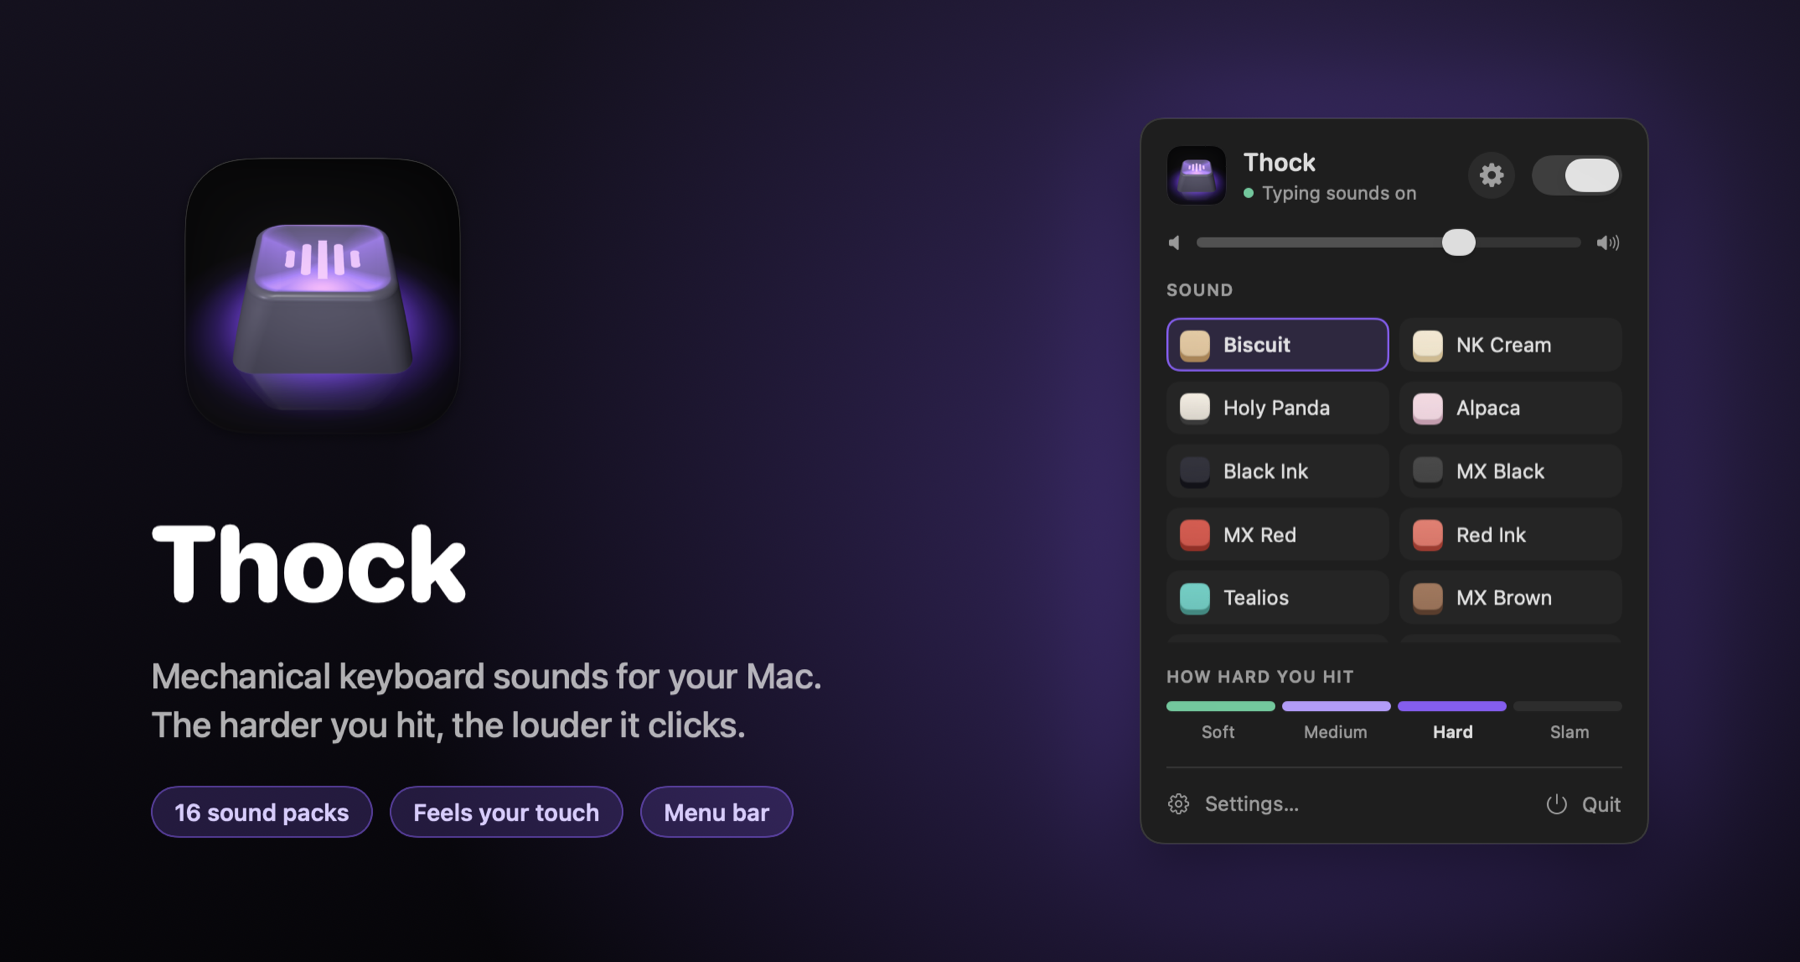
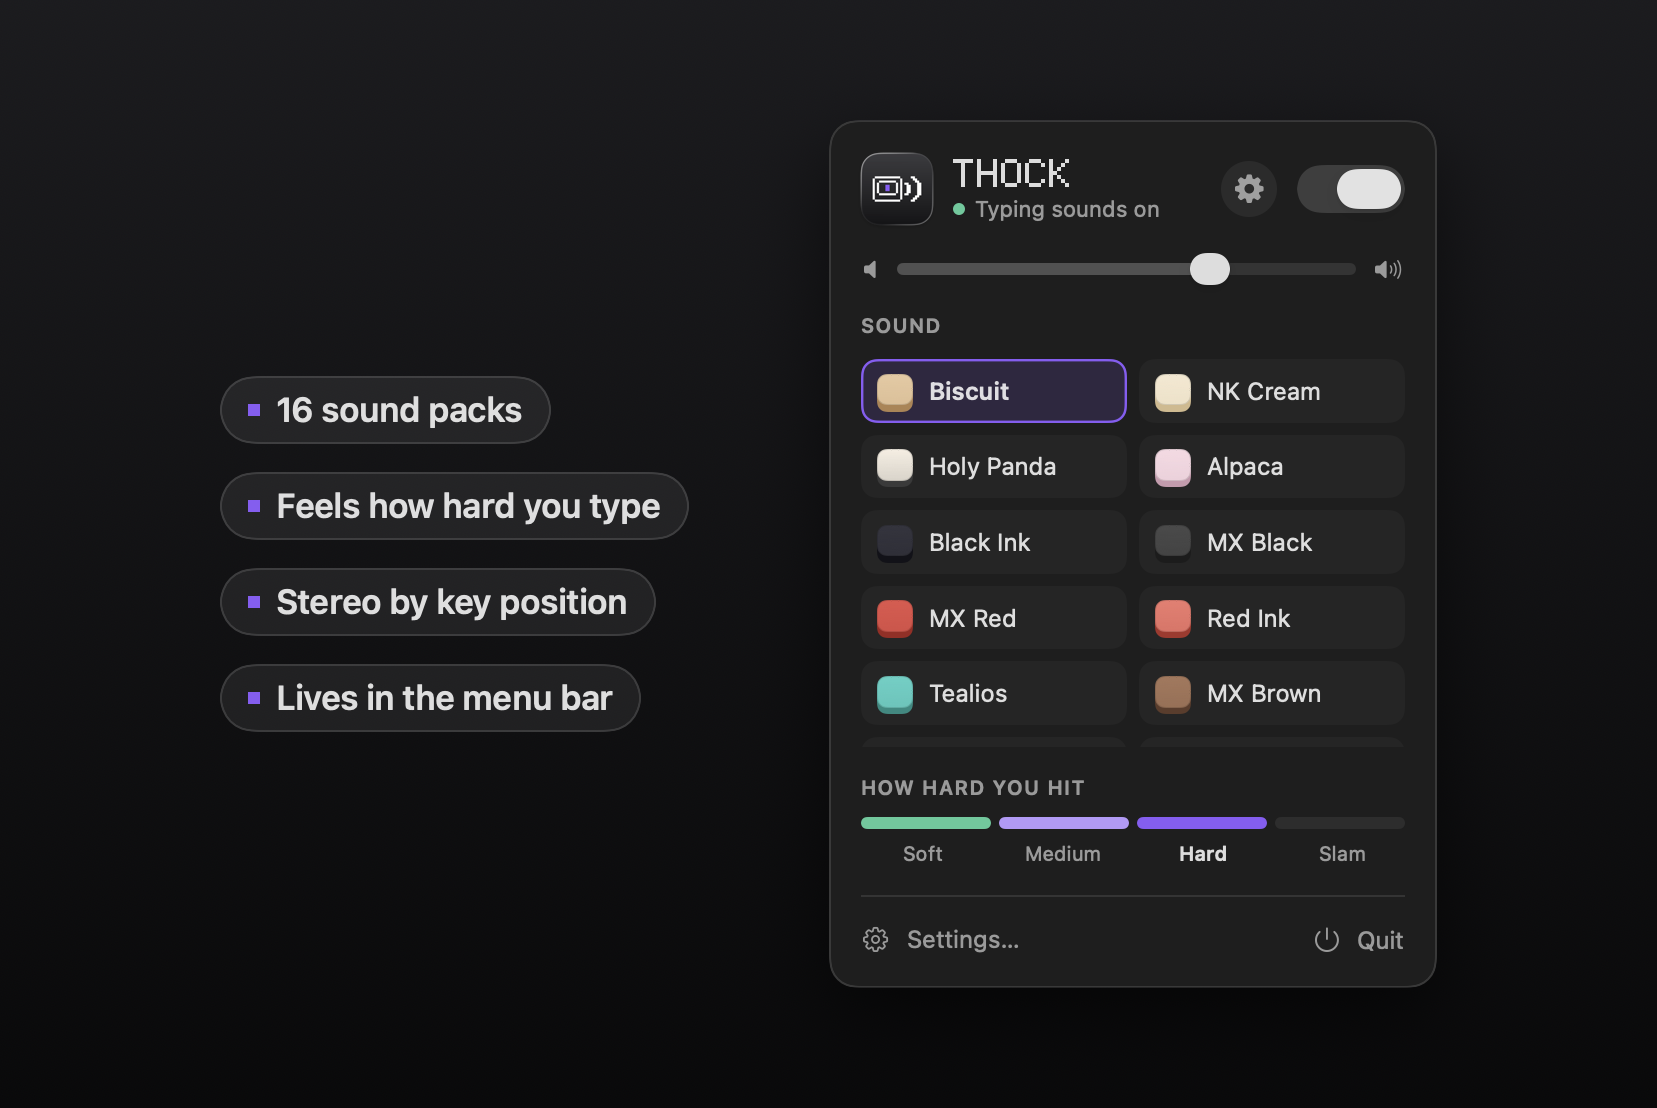
Thock 1.1.0

diff --git a/README.md b/README.md
@@ -1,60 +1,91 @@
 <p align="center">
-  <img src="docs/hero.png" alt="Thock: mechanical keyboard sounds for your Mac" width="100%">
+  <img src="docs/icon.png" width="160" alt="Thock icon">
 </p>
 
 <h1 align="center">Thock</h1>
-<p align="center"><b>Mechanical keyboard sounds for your MacBook.</b><br>The harder you hit, the louder it clicks.</p>
 
 <p align="center">
-  <a href="https://github.com/kakhaliel/Thock-Releases/releases/latest/download/Thock.dmg"><b>⬇&nbsp; Download Thock for Mac</b></a>
-  &nbsp;·&nbsp;
-  <a href="https://khalidkhalil.dev/apps/thock">Hear it in your browser</a>
-  &nbsp;·&nbsp;
-  <a href="https://github.com/kakhaliel/Thock-Releases/releases">All versions</a>
+  <b>Mechanical keyboard sounds for your MacBook.</b><br>
+  The harder you hit, the louder it clicks.
 </p>
 
-<p align="center"><sub>Free · macOS 13 Ventura or later · Apple Silicon and Intel</sub></p>
+<p align="center">
+  <a href="https://github.com/kakhaliel/Thock-Releases/releases/latest/download/Thock.dmg"><img alt="Download for macOS" src="https://img.shields.io/badge/Download-macOS-8B5CF6?style=for-the-badge&logo=apple&logoColor=white"></a>
+</p>
 
----
+<p align="center">
+  <img alt="macOS 13+" src="https://img.shields.io/badge/macOS-13%2B-8B5CF6?style=flat-square">
+  <img alt="Apple Silicon and Intel" src="https://img.shields.io/badge/Apple%20Silicon%20%2B%20Intel-universal-8B5CF6?style=flat-square">
+  <img alt="Latest release" src="https://img.shields.io/github/v/release/kakhaliel/Thock-Releases?style=flat-square&color=8B5CF6">
+</p>
+
+<p align="center">
+  <img src="docs/hero.png" alt="Thock in the menu bar">
+</p>
+
+## Download
+
+Get **[Thock.dmg](https://github.com/kakhaliel/Thock-Releases/releases/latest/download/Thock.dmg)** (latest version) or pick a version on the [Releases](https://github.com/kakhaliel/Thock-Releases/releases) page. Free. You can also [hear it in your browser](https://khalidkhalil.dev/apps/thock) first.
+
+## Features
 
 Thock lives in the menu bar and makes your MacBook keyboard sound like a real mechanical keyboard. It feels how hard you press each key through the MacBook's built-in motion sensor, and plays a soft, medium, hard or slam sound to match.
 
-<p align="center"><img src="docs/intro.gif" alt="Thock's launch animation" width="520"></p>
+<p align="center"><img src="docs/intro.gif" alt="Thock's launch animation" width="460"></p>
 
-## What it does
+### 16 sound packs
+Cherry MX, Holy Panda, NK Cream, Topre, Buckling Spring and more. Tap one to hear it. You can add your own packs too.
 
-- **16 sound packs**: Cherry MX, Holy Panda, NK Cream, Topre, Buckling Spring and more.
-- **Feels every press**: soft, medium, hard or slam, read from the motion sensor. It learns your normal touch.
 - **Stereo by key position**: keys on the left sound from the left speaker, keys on the right from the right.
 - **Pitch variety**: every click is a little different, so long typing never sounds like a loop.
-- **Clarity filter**: keeps each click crisp on small speakers.
+- **Clarity filter**: keeps each click crisp on small laptop speakers.
 - **Quiet with headphones**: it can play on the built-in speakers only.
-- **Just for fun**: a boom when you slam Enter, and Shouting mode, which turns a slammed letter into a capital.
 
-<p align="center">
-  <img src="docs/settings-sound.png" alt="Sound settings" width="32%">
-  <img src="docs/settings-feel.png" alt="Feel settings" width="32%">
-  <img src="docs/settings-fun.png" alt="Fun settings" width="32%">
-</p>
+<p align="center"><img src="docs/settings-sound.png" alt="Sound settings" width="720"></p>
 
-## Install
+### Feels every press
+Soft, medium, hard or slam, read from the motion sensor. Thock learns your normal touch as you type, and you can set how sensitive it is.
 
-1. [Download `Thock.dmg`](https://github.com/kakhaliel/Thock-Releases/releases/latest/download/Thock.dmg), open it and drag **Thock** into **Applications**.
-2. Open Thock. The first time, macOS says it can't check the app, because Thock isn't notarised by Apple yet. Click **Done**, then go to **System Settings → Privacy & Security**, scroll down and click **Open Anyway**. You only do this once.
-3. Let Thock hear the keyboard: **System Settings → Privacy & Security → Accessibility**, then turn on **Thock**. Thock only notices which key went down; it never reads what you type.
+<p align="center"><img src="docs/settings-feel.png" alt="Feel settings" width="720"></p>
 
-> Key-strength sensing needs an Apple Silicon MacBook. On other Macs every key plays at the same strength.
+### Just for fun
+A boom when you slam Enter, and Shouting mode, which turns a slammed letter into a capital.
 
-## Updating
+### Your look
+Pixel style (Thock's own look) or Classic (standard macOS icons and font), and any accent color you like.
 
-Download the newest `Thock.dmg` from the link above and drag it into Applications again, replacing the old one. After an update, macOS may ask for the Accessibility permission again: turn Thock off and on in the same place.
+<p align="center"><img src="docs/settings-appearance.png" alt="Appearance settings" width="720"></p>
 
-## About this repo
+## Install & first launch
 
-This repo only hosts the finished app for download. The source code is private.
+<p align="center"><img src="docs/install.png" alt="The Thock installer window" width="560"></p>
 
-The keyboard recordings come from the open-source **Mechvibes** and **ClickClack** projects and are used under the MIT License; the full credits are in the app's About tab.
+1. Open `Thock.dmg` and drag **Thock** into **Applications**.
+2. Open Thock. The first time, macOS says it can't check the app: click **Done**, then go to **System Settings → Privacy & Security** and click **Open Anyway**. (Thock is signed ad-hoc, without an Apple Developer ID.) You only do this once.
+3. Thock lives in the **menu bar** (the keycap icon). Click it to pick a sound, or open **Settings…** from there.
+
+**Updating:** download the newest `Thock.dmg` and drag it into Applications again, replacing the old one. After an update, macOS may ask for the Accessibility permission again: turn Thock off and on in the same place (or remove it with **−** and add it back).
+
+## Permissions
+
+| Permission | Why |
+|---|---|
+| Accessibility | To notice when a key goes down, so it can play a sound. Thock never reads or records what you type. |
+
+Thock works offline and sends nothing anywhere.
+
+## Requirements
+
+macOS 13 Ventura or newer, Apple Silicon or Intel. Key-strength sensing needs an Apple Silicon MacBook; on other Macs every key plays at the same strength.
+
+## What's new
+
+See [CHANGELOG.md](CHANGELOG.md).
 
 ---
 
-<p align="center"><sub>Made by <a href="https://khalidkhalil.dev">Khalid Khalil</a> · info@khalidkhalil.dev · © 2026</sub></p>
+This repository holds releases only; the source code is private. The keyboard recordings come from the open-source **Mechvibes** and **ClickClack** projects and are used under the MIT License (full credits in the app's About page).
+
+<p align="center">
+  Developed by <a href="https://khalidkhalil.dev">Khalid Khalil</a> · info@khalidkhalil.dev · © 2026 Khalid Khalil
+</p>

diff --git a/CHANGELOG.md b/CHANGELOG.md
@@ -1,0 +1,27 @@
+# What's new in Thock
+
+## v1.1.0 — 2026-11-24
+
+A new look, in the same family as Khalid Khalil's other apps.
+
+- New: a pixel-art app icon and menu bar icon.
+- New: a pixel launch animation. The key drops in, lights up, and "THOCK" types itself out to the sound of your pack.
+- New: Settings → Appearance. Pick Pixel (Thock's own look) or Classic (standard macOS icons and font), and any accent color.
+- Improved: a new Settings window with a sidebar and grouped cards, and a new About page.
+- Improved: a new installer window. Drag Thock to Applications, with the first-launch steps right there.
+
+## v1.0.2 — 2026-11-23
+
+- Changed: new contact email, info@khalidkhalil.dev.
+
+## v1.0.1 — 2026-11-23
+
+- Fixed: the menu bar panel now opens at its full size. Before, it could open too short and cut off its header and the Settings / Quit row.
+
+## v1.0 — 2026-11-23
+
+First release.
+
+- 16 mechanical keyboard sound packs, with stereo by key position, pitch variety and a clarity filter.
+- Key strength read from the MacBook's motion sensor: soft, medium, hard or slam.
+- A boom on a slammed Enter, and Shouting mode.
